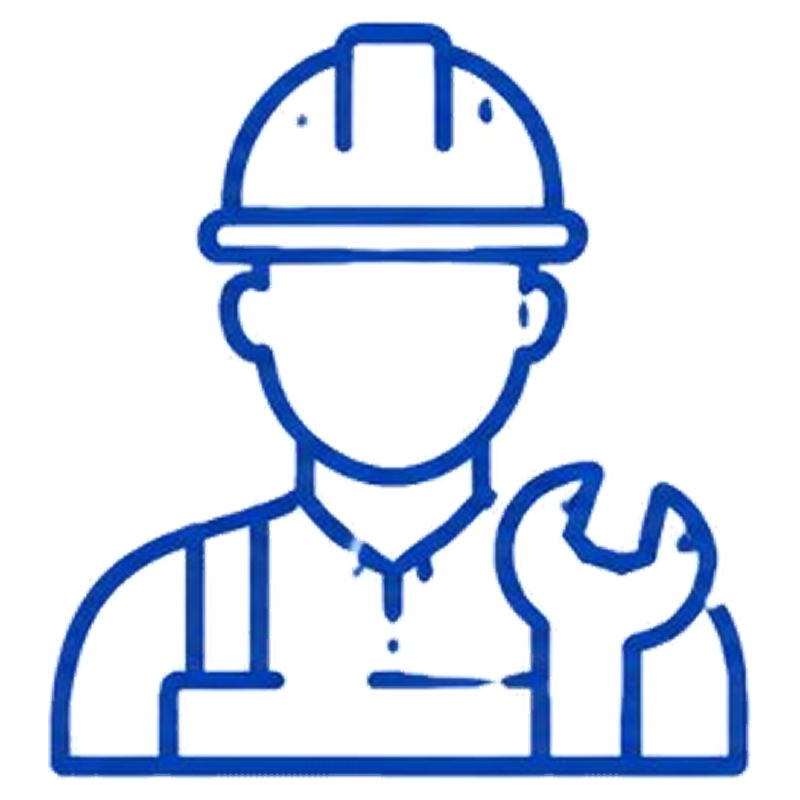
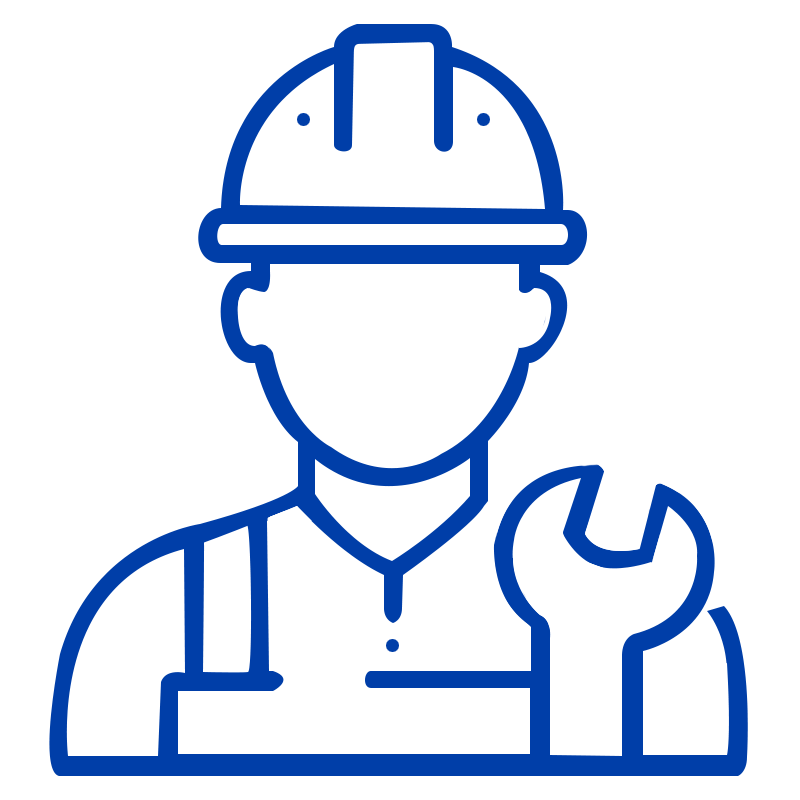
Add files via upload

Changed region(s): [[0.0625, 0.0, 0.9375, 1.0]]

diff --git a/index.html b/index.html
@@ -60,8 +60,8 @@
           <!-- Nav Desktop -->
           <nav class="hidden md:flex items-center gap-8">
             <a href="#inicio"        class="nav-link">Início</a>
-            <a href="#sobre"         class="nav-link">Sobre Nós</a>
             <a href="#servicos"      class="nav-link">Serviços</a>
+            <a href="#sobre"         class="nav-link">Sobre Nós</a>
             <a href="#como-funciona" class="nav-link">Como Funciona</a>
             <a href="#projetos"      class="nav-link">Projetos</a>
             <a href="#blog"          class="nav-link">Blog</a>
@@ -86,8 +86,8 @@
       <!-- Mobile Menu -->
       <div id="mobile-menu" class="md:hidden bg-dark border-t border-white/10 px-6 py-4 flex-col gap-4" style="display:none;">
         <a href="#inicio"        class="nav-link-mobile">Início</a>
-        <a href="#sobre"         class="nav-link-mobile">Sobre Nós</a>
         <a href="#servicos"      class="nav-link-mobile">Serviços</a>
+        <a href="#sobre"         class="nav-link-mobile">Sobre Nós</a>
         <a href="#como-funciona" class="nav-link-mobile">Como Funciona</a>
         <a href="#projetos"      class="nav-link-mobile">Projetos</a>
         <a href="#blog"          class="nav-link-mobile">Blog</a>